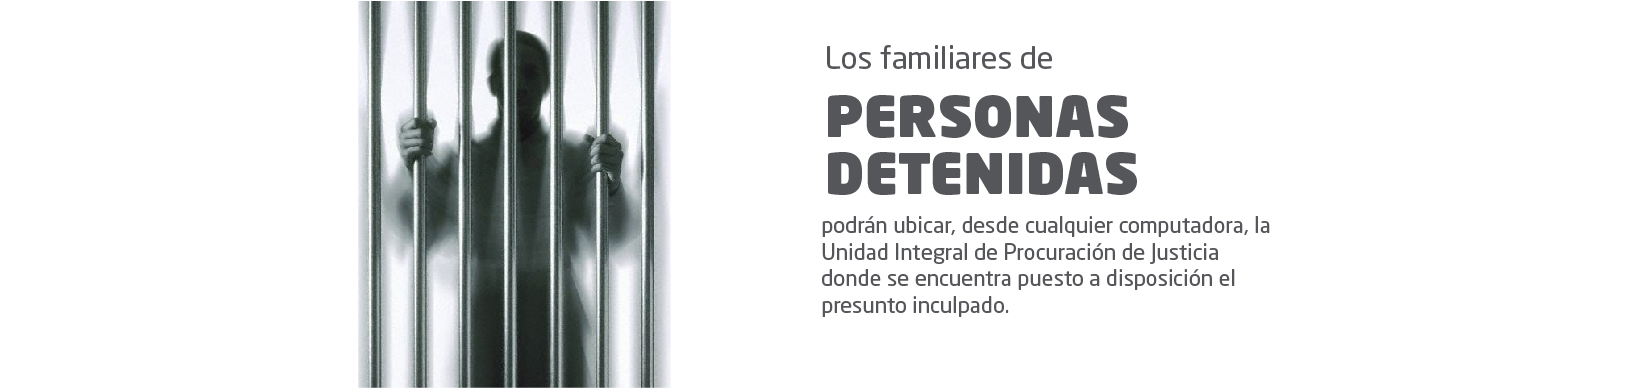
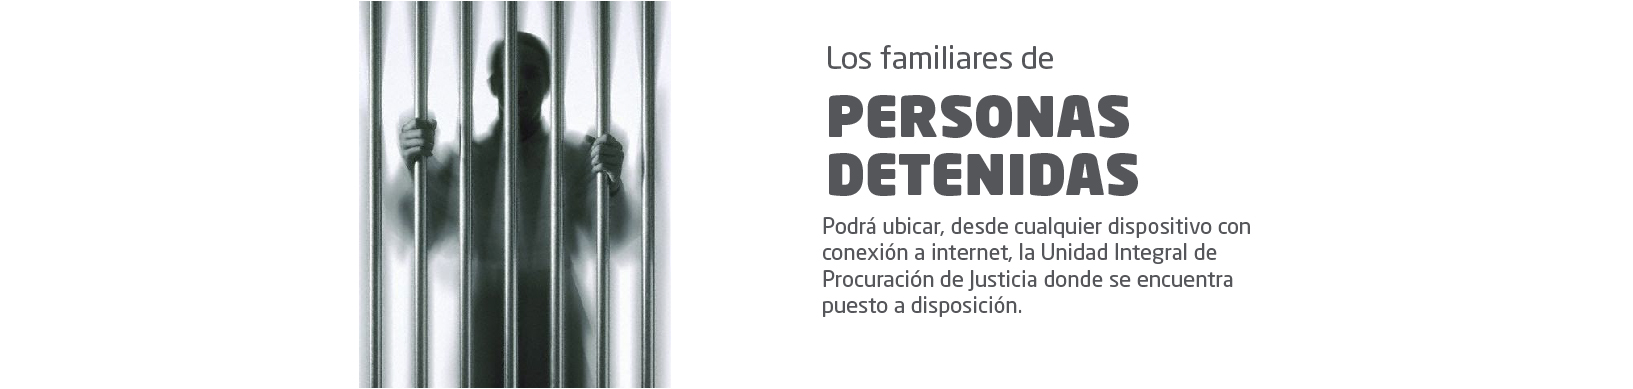
Modificación de colores y modales de error agregados

diff --git a/detenidos/index2.html b/detenidos/index2.html
@@ -60,14 +60,14 @@
 									<li data-toggle="tooltip" data-placement="top" title="Bienvenida" class="lineamenu">
 										<a href="./bienvenida.html"><span class="glyphicon glyphicon-home" aria-hidden="true"></span> Bienvenida</a>
 									</li>
+									<li data-toggle="tooltip" data-placement="top" title="Desaparecidos" class="lineamenu">
+										<a href="../desaparecidos/index4.html"><span class="glyphicon glyphicon-user" aria-hidden="true"></span> Desaparecidos</a>
+									</li>
 									<li data-toggle="tooltip" data-placement="top" title="Infografía" class="lineamenu">
 										<a href="./img/infografia.pdf"><span class="glyphicon glyphicon-info-sign" aria-hidden="true"></span> Infografía</a>
 									</li>
-									<li data-toggle="tooltip" data-placement="top" title="Estadística" class="lineamenu">
+									<li data-toggle="tooltip" data-placement="top" title="Estadística">
 										<a href="./img/grafica.png"><span class="glyphicon glyphicon-stats" aria-hidden="true"></span> Estadística</a>
-									</li>
-									<li data-toggle="tooltip" data-placement="top" title="Consulta la Ayuda para el uso del sitio">
-									<a href="./img/manual.pdf"><span class="glyphicon glyphicon-question-sign" aria-hidden="true"></span> Ayuda</a>
 									</li>
 								</ul>
 							</div>
@@ -94,7 +94,7 @@
 					<div class="visible-xs text-slider">
 						<p style="margin: 0px;">Los familiares de</p>
 						<h3 style="margin: 0px;"><strong>PERSONAS DETENIDAS</strong></h3>
-						<p>podrán ubicar, desde cualquier computadora, la Unidad Integral de Procuración de justicia donde se encuentra puesto a disposición el presunto inculpado.</p>
+						<p>podrán ubicar, desde cualquier dispositivo con conexión a internet, la Unidad Integral de Procuración de justicia donde se encuentra puesto a disposición.</p>
 					</div>
 				</div>
 				<div class="item">
@@ -103,7 +103,7 @@
 					<div class="visible-xs text-slider">
 						<p style="margin: 0px;">Los familiares de</p>
 						<h2 style="margin: 0px;"><strong>PERSONAS DETENIDAS</strong></h2>
-						<p>podrán ubicar, desde cualquier computadora, la Unidad Integral de Procuración de justicia donde se encuentra puesto a disposición el presunto inculpado.</p>
+						<p>podrán ubicar, desde cualquier dispositivo con conexión a internet, la Unidad Integral de Procuración de justicia donde se encuentra puesto a disposición.</p>
 					</div>
 				</div>
 				<div class="item">
@@ -112,7 +112,7 @@
 					<div class="visible-xs text-slider">
 						<p style="margin: 0px;">Los familiares de</p>
 						<h2 style="margin: 0px;"><strong>PERSONAS DETENIDAS</strong></h2>
-						<p>podrán ubicar, desde cualquier computadora, la Unidad Integral de Procuración de justicia donde se encuentra puesto a disposición el presunto inculpado.</p>
+						<p>podrán ubicar, desde cualquier dispositivo con conexión a internet, la Unidad Integral de Procuración de justicia donde se encuentra puesto a disposición.</p>
 					</div>
 				</div>
 			</div>
@@ -155,21 +155,21 @@
 							<div class="col-xs-12 col-sm-6 col-md-2">
 								<div class="form-group">
 									<label for="nombre">Nombre:</label>
-									<input type="text" id="nombre" name="nombre" onkeyup="mayus();" ng-model="nombre" class="form-control required ng-valid ng-dirty" ng-required="required" required>
+									<input type="text" id="nombre" name="nombre" ng-model="nombre" class="form-control required ng-valid ng-dirty" ng-required="required" required>
 
 								</div>
 							</div>
 							<div class="col-xs-12 col-sm-6 col-md-2 lineaForm">
 								<div class="form-group">
 									<label for="paterno">Apellido Paterno:</label>
-									<input type="text" id="paterno" name="paterno" onkeyup="mayus();" ng-model="paterno" class="form-control required ng-valid ng-dirty" ng-required="required" required>
+									<input type="text" id="paterno" name="paterno" ng-model="paterno" class="form-control required ng-valid ng-dirty" ng-required="required" required>
 								</div>
 							</div>
 							<div class="clearfix hidden-md hidden-lg"></div>
 							<div class="col-xs-12 col-sm-6 col-md-2 lineaForm">
 								<div class="form-group">
 									<label for="materno">Apellido Materno:</label>
-									<input type="text" id="materno" name="materno" onkeyup="mayus();" ng-model="materno" class="form-control required ng-valid ng-dirty" ng-required="required" required>
+									<input type="text" id="materno" name="materno" ng-model="materno" class="form-control required ng-valid ng-dirty" ng-required="required" required>
 								</div>
 							</div>
 							<div class="col-xs-12 col-sm-6 col-md-2 lineaForm">
@@ -199,16 +199,17 @@
 						<div class="row">
 							<div class="col-xs-6 col-md-2">
 								<div class="form-group">
-									<input class="btn btn-info btn-block" ng-click="getDetencion()" id="search" type="button" value="Buscar">
+									<input class="btn btn-azul btn-block" ng-click="getDetencion()" id="search" type="button" value="Buscar">
 								</div>
 							</div>
 							<div class="col-xs-6 col-md-2">
 								<div class="form-group">
-									<button type="button" href='javascript:;' onclick="limpiar();" class="btn btn-default btn-block">Limpiar</button>
+									<button type="button" href='javascript:;' onclick="limpiar();" class="btn btn-gris btn-block">Limpiar</button>
 								</div>
 							</div>
 							<div class="col-xs-12 col-md-8 text-right">
-								<h6 class="help-block"><span class="glyphicon glyphicon-question-sign" aria-hidden="true"></span> Ayuda</h6>
+								<h6><a href="./img/manual.pdf" title="Consulta la Ayuda para el uso del sitio" class="help-block"><span class="glyphicon glyphicon-question-sign" aria-hidden="true"></span> Ayuda</a></h6>
+									
 							</div>
 						</div>
 					</div>
@@ -216,16 +217,35 @@
 			</div>
 		</div>
 
-
-
-
-        <div class="alert alert-danger" id="messageDiv" style="display:none;">
-			<span class="i-info"></span><strong>{{message}}</strong>
+		<!--Modal FALTAN DATOS-->
+		<div id="faltanDatos" class="modal fade" role="dialog">
+		    <div class="modal-dialog modal-lg" role="document" >
+		        <div class="modal-content" id="modal1">
+		            <div class="modal-header alert-warning">
+		                <button type="button" class="close" data-dismiss="modal" aria-label="Close"><span class="glyphicon glyphicon-remove-sign" aria-hidden="true"></span></button>
+		                <h4 class="modal-title neosansproregular" id="myModalLabel">Debe proporcionar <strong class="neosansprobold">TODOS</strong> los datos (nombre, paterno, materno, sexo, fecha nacimiento) para realizar la búsqueda.</h4>
+		            </div>
+		        </div>
+		    </div>
+		</div>
+		<!--Modal No se encontraron resultados-->
+		<div id="noHayRegistro" class="modal fade" role="dialog">
+		    <div class="modal-dialog modal-lg" role="document">
+		        <div class="modal-content" id="modal2">
+		            <div class="modal-header alert-danger">
+		                <button type="button" class="close" data-dismiss="modal" aria-label="Close"><span class="glyphicon glyphicon-remove-sign" aria-hidden="true"></span></button>
+		                <h4 class="modal-title" id="myModalLabel"><strong>No existe registro</strong> ó alguno de los datos proporcionados por la persona detenida son distintos a los especificados.</h4>
+		            </div>
+		        </div>
+		    </div>
 		</div>
 
-		<div id="resultsDiv" style="display:none;">
+
+
+
+		<div id="resultsDiv">
 			<div class="datos">
-				<div class="row titulo">
+				<div class="row titulo neosansprobold">
 					<div class="col-xs-12 col-sm-6">
 						<strong><span>{{ itemnombre }} {{ itempaterno }} {{ itemmaterno }}</span></strong>
 					</div>
@@ -246,6 +266,8 @@
 						<strong>Ubicación UIPJ donde está el detenido</strong>
 						<div id="map"></div>
 						<script defer type="text/javascript">
+							$("#map").css("height", "400px");
+							$("#map").css("width", "100%");
 							var map;
 							var marker ;
 							function initMap() {
@@ -269,12 +291,6 @@
 									marker.setAnimation(google.maps.Animation.BOUNCE);
 								}
 							}
-							function displayHelp(){
-								$('#ayudaDiv').css("visibility", "visible");
-							}
-							function closeHelp(){
-								$('#ayudaDiv').css("visibility", "hidden");
-							}
 						</script>
 						<script async defer src="https://maps.googleapis.com/maps/api/js?key=AIzaSyBuYqLjlGsm5hgBHyhny5ODQKwjnqSbs30&callback=initMap">
 						</script>
@@ -297,8 +313,7 @@
 					<img src="./img/logo-footer.png" alt="Fiscalia General del Estado" width="140">
 				</div>
 				<div class="col-xs-12 col-md-4 lineaFooter">
-					<h4 class="negrita">Contacto</h4>
-					<br>
+					<h4 class="negrita"><strong>Contacto</strong></h4>
 					Circuito Rafael Guízar y Valencia No. 707, Colonia Reserva Territorial C.P. 91096 Xalapa, Veracruz.
 					<br>
 					Teléfono: 01 228 841 6170
@@ -306,7 +321,7 @@
 					contacto@fiscaliaveracruz.gob.mx
 				</div>
 				<div class="col-xs-12 col-md-4 lineaFooter">
-					<h4 class="negrita">Visitante No.</h4>
+					<h4 class="negrita"><strong>Visitante No.</strong></h4>
 					<!--<div class="textwidget"><a href="http://www.easycounter.com/es/">
 						<img src="//www.easycounter.com/counter.php?contactodetenidos" border="0" alt="Contador"></a>
 					</div>-->
@@ -346,15 +361,6 @@
                 });
             });
         });
-
-		function mayus() {
-    		var x = document.getElementById("nombre");
-    		x.value = x.value.toUpperCase();
-    		var x = document.getElementById("materno");
-    		x.value = x.value.toUpperCase();
-    		var x = document.getElementById("paterno");
-    		x.value = x.value.toUpperCase();
-		}
         
         function limpiar(){
             $('#nombre').val('');
@@ -363,6 +369,8 @@
             $('#sexo').val('');
             $('#fechaNacimiento').val('');
         };
+
+        $("#resultsDiv").hide();
     </script>
 </body>
 </html>

diff --git a/detenidos/js/detenidos.js b/detenidos/js/detenidos.js
@@ -236,8 +236,7 @@ angular.module('detenidosApp', [])
        $scope.getDetencion = function() {
             if($('#nombre').val()== "" || $('#paterno').val()=="" || $('#materno').val()=="" || $('#sexo').val()=="" || $('#fechaNacimiento').val()==""){
               $("#resultsDiv").css("display", "none");
-              $("#messageDiv").css("display", "block");
-              $scope.message="Debe proporcionar TODOS  los datos (nombre, paterno, materno, sexo, fecha Nacimiento) para realizar la busqueda";
+              $("#faltanDatos").modal();
               return;
             }  
             
@@ -258,17 +257,16 @@ angular.module('detenidosApp', [])
             .success(function (data, status, headers, config) {
                if(data.error_code==418){
                 $("#resultsDiv").css("display", "none");
-                $("#messageDiv").css("display", "block");
-                $scope.message="No se encontró ningún registro, favor de verificar los datos proporcionados";
+                //$("#messageDiv").css("display", "block");
+                //$scope.message="No se encontró ningún registro, favor de verificar los datos proporcionados";
               }
               if(data.error_code!=undefined){
                 $("#resultsDiv").css("display", "none");
-                $("#messageDiv").css("display", "block");
-                $scope.message = data.error_message;
+                $("#noHayRegistro").modal();
               }
               else{
                 limpiarResultados();
-                $("#resultsDiv").css("display", "block");
+                $("#resultsDiv").show();
                  var pos = new google.maps.LatLng(data[0].latitud,data[0].longitud);
                  marker.setPosition(pos);
                  map.setCenter(marker.getPosition());

diff --git a/detenidos/css/formulario.css b/detenidos/css/formulario.css
@@ -3,7 +3,7 @@
 	color: #000;
 }
 .panel1{
-	background-color: #8E8E8E;
+	background-color: #8e8e8e;
 	color: #fff;
 }
 .info-llama{
@@ -19,8 +19,30 @@
 }
 
 .lineaForm{
-    border-left: 1px solid #8E8E8E;
+    border-left: 1px solid #919396;
     height: 5em;
+}
+.btn-azul{
+	font-family: 'neosanspro-regular';
+    -webkit-font-smoothing: antialiased;
+    -moz-osx-font-smoothing: grayscale;
+    background-color:  #48b0f7;
+    color: #fff;
+}
+.btn-azul:hover{
+	background-color:  #3B86B9;
+	color: #fff;
+}
+.btn-gris{
+	font-family: 'neosanspro-regular';
+    -webkit-font-smoothing: antialiased;
+    -moz-osx-font-smoothing: grayscale;
+    background-color: #cccccc;
+    color: #fff;
+}
+.btn-gris:hover{
+	background-color:  #919396;
+	color: #fff;
 }
 
 
@@ -52,4 +74,47 @@
     .info-llama{
 		font-size: 2rem;
 	}
+}
+
+.modal {
+  text-align: center;
+  padding: 0!important;
+}
+
+.modal:before {
+  content: '';
+  display: inline-block;
+  height: 100%;
+  vertical-align: middle;
+  margin-right: -4px;
+}
+
+.modal-dialog {
+  display: inline-block;
+  text-align: left;
+  vertical-align: middle;
+}
+
+.modal-dialog, .modal-content, .modal-header{
+	border-radius: 5px;
+}
+
+#modal2{
+	background-color: #FDDDDD;
+	border: 1px solid  #933432;
+}
+#modal1{
+	background-color: #FEF6DD;
+	border: 2px solid  #967F35;
+}
+
+.neosanprobold{
+	font-family: 'neosanspro-bold';
+    -webkit-font-smoothing: antialiased;
+    -moz-osx-font-smoothing: grayscale;
+}
+.neosansproregular{
+	font-family: 'neosanspro-regular';
+    -webkit-font-smoothing: antialiased;
+    -moz-osx-font-smoothing: grayscale;
 }

diff --git a/detenidos/css/header.css b/detenidos/css/header.css
@@ -13,10 +13,10 @@
     font-size: 1rem;
 }
 .titulo1{
-    color: #8E8E8E;
+    color: #929396;
 }
 .titulo2{
-    color: #54555A;
+    color: #58595B;
 }
 
 /*Navbar*/
@@ -25,7 +25,7 @@
     background-color: #444644;
     border-color: #444644;
     color: #fff;
-    box-shadow: 3px 3px 6px 5px #888888;
+    box-shadow: 3px 3px 6px 5px #919396;
     margin-bottom: 15px;
     min-height: 30px;
 }
@@ -38,7 +38,7 @@
     color: #fff;
 }
 .navbar-toggle{
-    background-color: #202320;
+    background-color: #222222;
     margin: 5px;
     margin-right: 15px;
     padding: 7px 8px
@@ -70,16 +70,16 @@
 /*Slider*/
 .carousel-indicators>li{
     background-color: #fff;
-    border-color: #555659;
+    border-color: #58595B;
     bottom: 0;
     margin-bottom: 0px;
     padding-bottom: 0px;
 }
 .carousel-indicators>li.active{
-    background-color: #555659;
+    background-color: #58595B;
 }
 .text-slider{
-    color: #555659;
+    color:  #55565A;
     text-align: center;
 }
 .text-slider>h3{
@@ -148,7 +148,7 @@
         border-color: #444644;
         color: #fff;
         box-shadow: none;
-        box-shadow: 3px 3px 6px 5px #888888;
+        box-shadow: 3px 3px 6px 5px #919396;
         margin-left: 0px;
         margin-right: 0px;
     }

diff --git a/detenidos/css/sticky-footer.css b/detenidos/css/sticky-footer.css
@@ -58,7 +58,9 @@ body {
     color: #012f66;
 }
 .negrita{
-    font-weight: bolder;
+    font-family: 'neosanspro-bold';
+    -webkit-font-smoothing: antialiased;
+    -moz-osx-font-smoothing: grayscale;
 }
 
 @media (max-width: 990px) {
